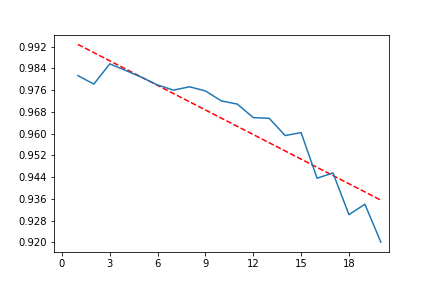
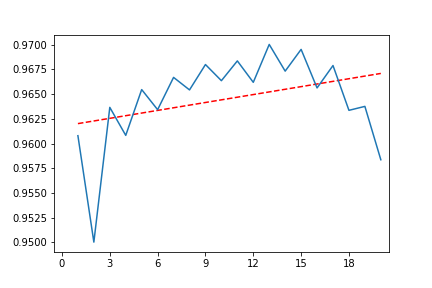
Changed so that data split is the same for varying k values.

diff --git a/1_knn/knn.py b/1_knn/knn.py
@@ -4,6 +4,7 @@
 import sklearn.neighbors as skn
 import sklearn.model_selection as skts
 import numpy as np
+import pandas as pd
 
 '''--------
 | Options |
@@ -28,7 +29,6 @@ plot_name = "./k5.png"
 def load_dataset(filename):
     df = pd.read_csv(filename, header=None)
     array = df.to_numpy()
-    random.shuffle(array)
     return array
 
 # Purpose:
@@ -51,6 +51,11 @@ def label_feature_split(data):
 ---------------------------'''
 # Generation and testing of varied knn k value.
 
+'''---------------------------
+| Model Generation an Testing|
+---------------------------'''
+# Generation and testing of varied knn k value.
+
 import sklearn.neighbors as skn
 import sklearn.model_selection as skts
 import numpy as np
@@ -65,26 +70,29 @@ data = load_dataset(url)
 feature_collection, label_collection = label_feature_split(data)
 
 
-# List containing tuples with two entries. First is n and second is the average
-# score.
+# Dict to contain results. K-value as index and results in a list.
 n_with_score = dict()
 for test_n in range(0, trials):
+    # Split data before varying k. Ensures that k is the only factor being changed.
+    feature_train, feature_test, label_train, label_test = skts.train_test_split(feature_collection, 
+                                                                             label_collection, 
+                                                                             test_size = 0.20)
     for n in range(1, 21):
+        # If index not present in dictionary then add it.
         if n in n_with_score:
             pass
         else:
             n_with_score[n] = []
-        feature_train, feature_test, label_train, label_test = skts.train_test_split(feature_collection, 
-                                                                             label_collection, 
-                                                                             test_size = 0.20)
+        # knn code
         hood = skn.KNeighborsClassifier(n_neighbors = n)
         hood.fit(feature_train, label_train)
         score = hood.score(feature_test, label_test)
         n_with_score[n].append(score)
         
-# Calculate average score
+# Lists to store average score data.
 plot_data_x = []
 plot_data_y = []
+# Calculate means for each k value. 
 for key in n_with_score:
     n_with_score[key] = np.mean(np.array(n_with_score[key]))
     plot_data_x.append(int(key))

diff --git a/1_knn/README.md b/1_knn/README.md
@@ -32,7 +32,9 @@ While crude, the user does have the ability to modify two runtime parameters wit
 
 ### Which K (from 1 to 20) works the best? If all Ks have similar accuracy, please write down your thoughts about “Why.”
 
-We found that a run of only five trials per k was insufficient for stable reproduction of trends. We became curious and expanded the number of trials greatly, to 1000. Graphs of 5 trials and 1000 trials are both provided below. Multiple reproductions of the 1000 trial graph demonstrated a maximum accuracy in the range of 1 <= k <= 4. In our observations a k of 3 was most frequently the highest scoring for the 1000 trial runs. We hypothesize that this is the case because the categories are distinctly clustered from each other. Thus, it requires little information to group them. A k above a threshold ~4 can have a relatively large negative impact.
+We found that a run of only five trials per k was insufficient for stable reproduction of trends. We became curious and expanded the number of trials greatly, to 1000. Graphs of 5 trials and 1000 trials are both provided below. Multiple reproductions of the 1000 trial graph demonstrated a maximum accuracy most frequently at a value of k = 13. However, none of the tested k-values performed terribly. All ks had an accuracy of ~0.94 or higher. However, the high and low ends of the k-value ranges performed the worst. The high accuracy suggests that the data is well clustered and hence knn is a well-suited method for classification.
+
+Worth note is that even numbers perform worse than odd numbers. I suspect this has to do with how the algorithm handles split decision edge cases; the instances when neighbors are evenly split between two (or more) groups. I could not locate it in the documentation but my suspiscion is that in such cases an assignment is made by some form of random choice thus reducing the accuracy of predictions. 
 
 
 
